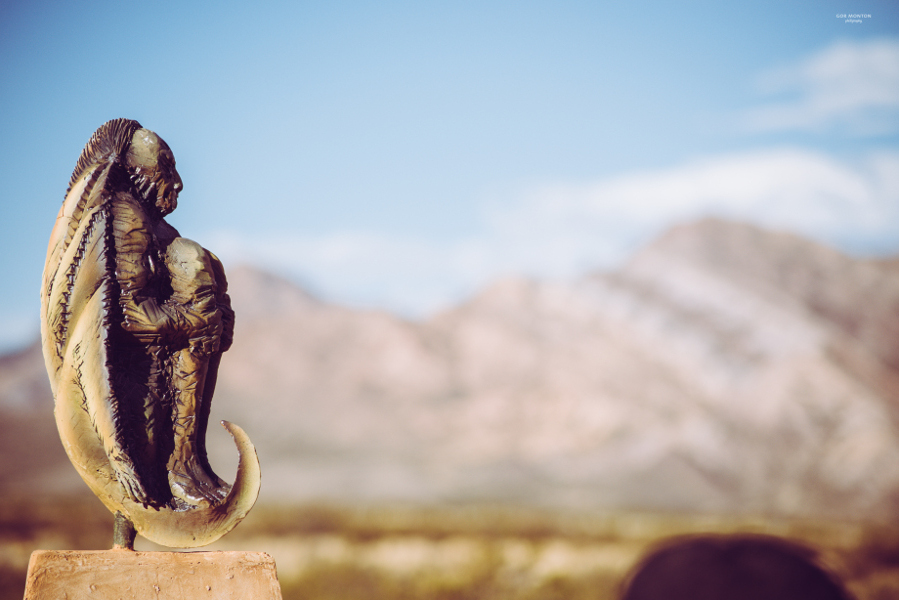
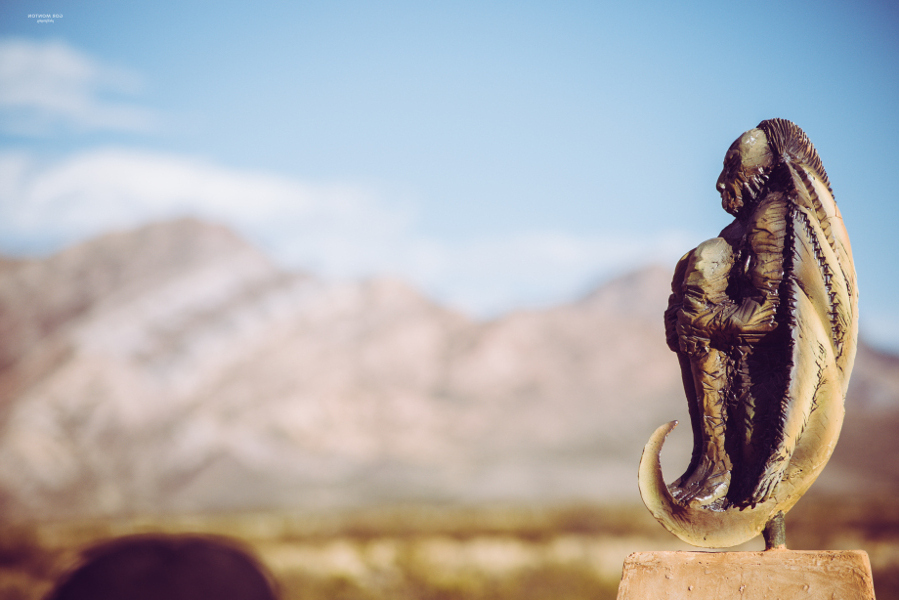
Pequeños cambios en Estilo

diff --git a/css/style.css b/css/style.css
@@ -145,9 +145,9 @@ article p {
 .article-3 {
     grid-column: 1/ span 1;
     grid-row: 2/ span 1;
-    background-image: url('../img/photo_3.jpg');
+    background-image: url('../img/photo_10.jpg');
     background-size: cover;
-    background-position: left;
+    background-position: center;
 }
 
 .article-4 {
@@ -179,9 +179,9 @@ article p {
 .article-5 {
     grid-column: 3/ span 1;
     grid-row: 2/ span 1;
-    background-image: url('../img/photo_8.jpg');
+    background-image: url('../img/photo_3.jpg');
     background-size: cover;
-    background-position-x: -40px;
+    background-position: right;
 }
 
 .article-6 {
